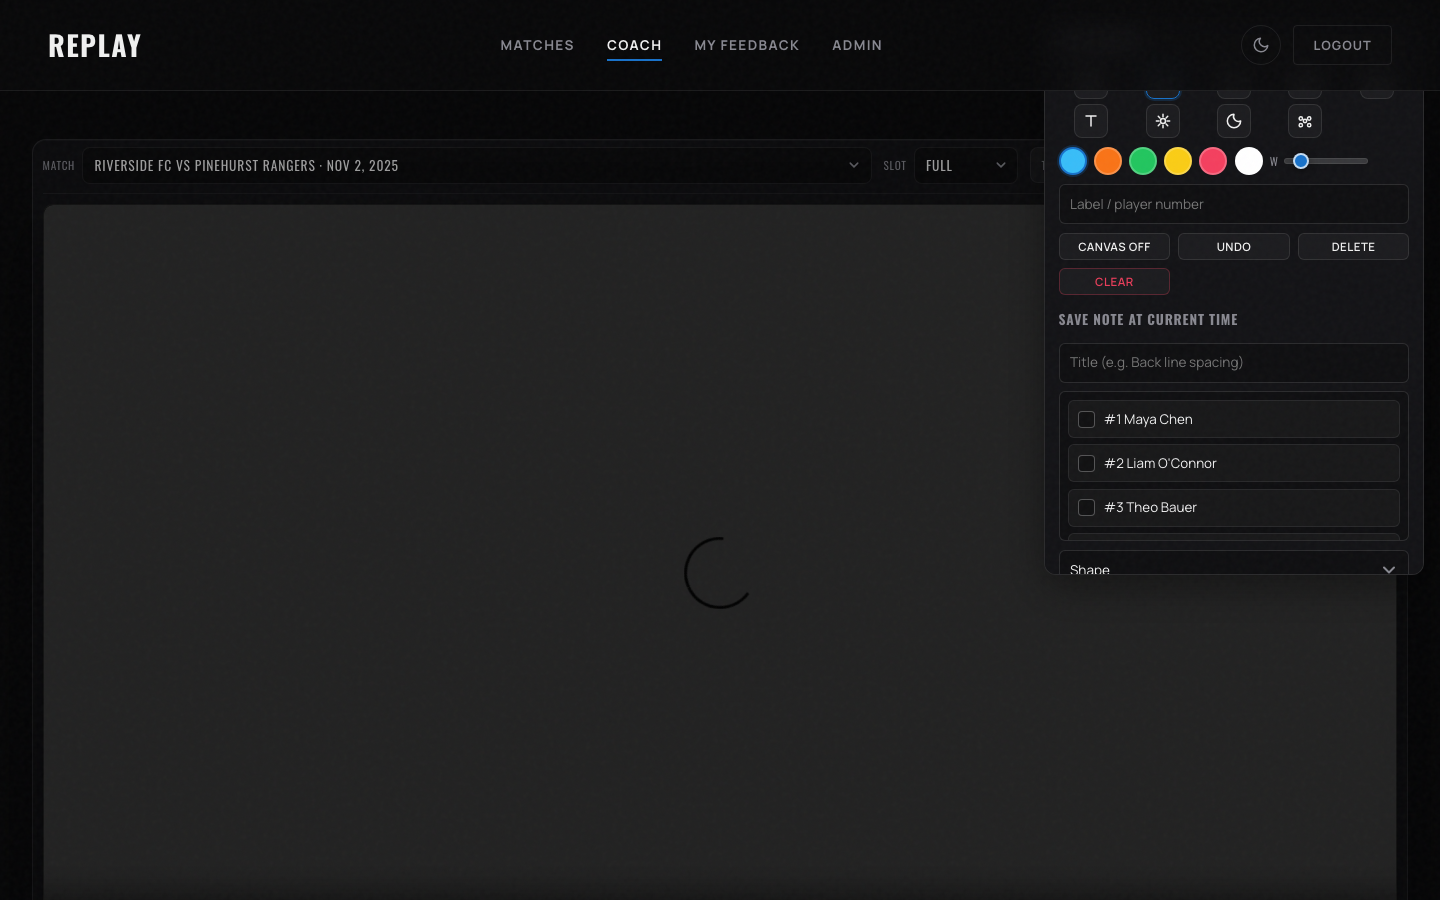
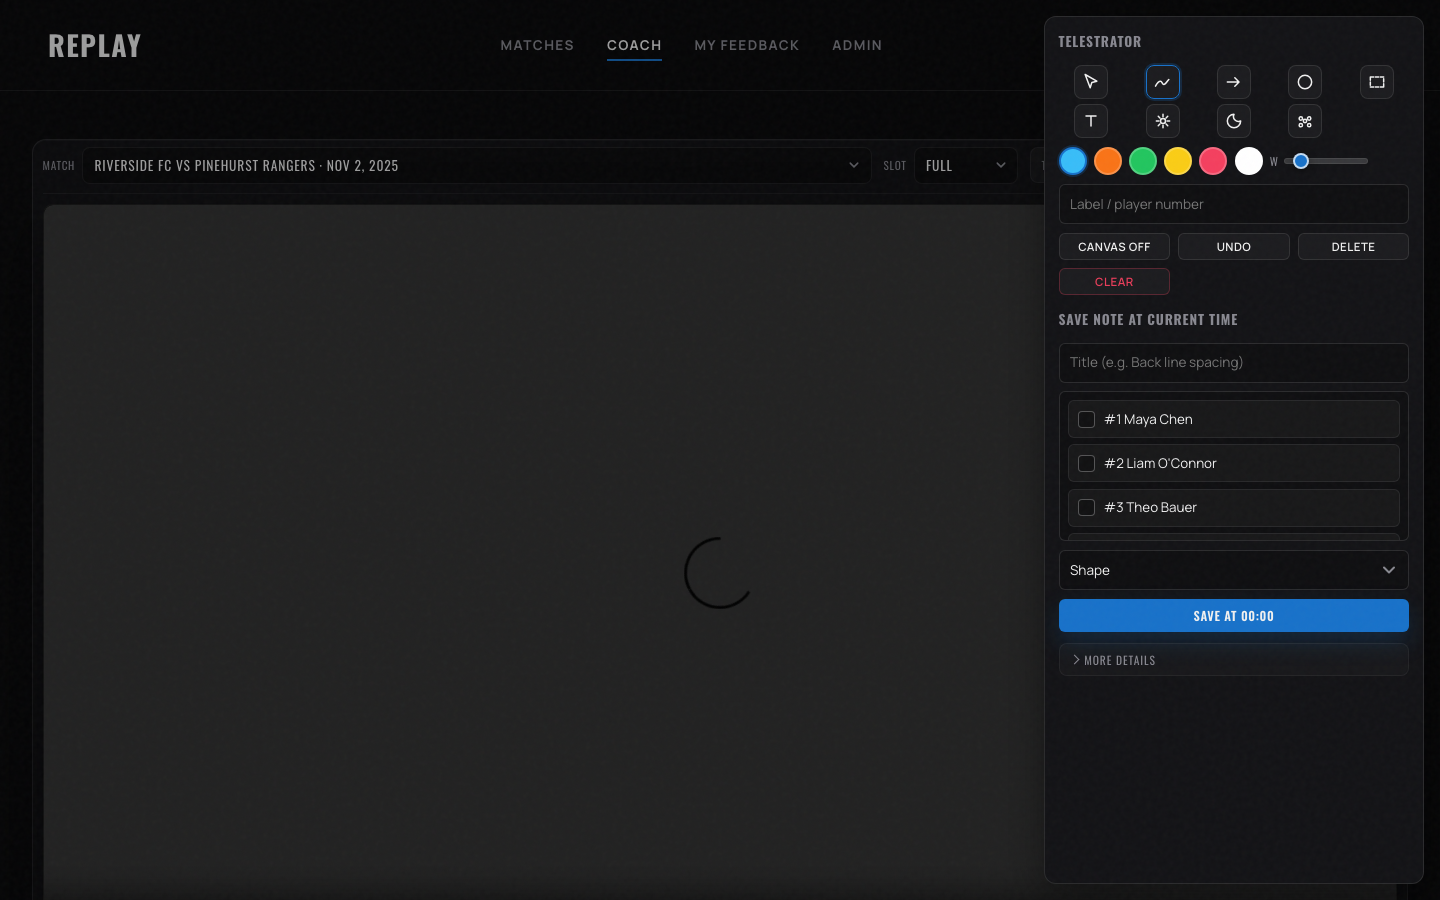
Sprint 6 fix: drawer top tools clipped by sticky nav and stale scrollTop
User report: "when the tools come into view its cut off at the top"

Two compounding issues hid the drawer's top section:

1) The drawer renders at top: 1rem (viewport-relative, position: fixed,
   z-index: 60) but `nav.main-nav` is `position: sticky; z-index: 100;
   height: 91px`. The drawer's top ~75 px got hidden behind the nav,
   showing only the second tool row + color swatches.

2) `.coach-review-side` carried scrollTop from when it lived inline in
   the inspector column (Sprint 1 height-sync sets max-height to match
   the video; long content scrolls inside). After re-parenting to body
   for the drawer, that stale scrollTop kept the top tools off-screen.

3) Bonus: `_syncCoachReviewSideHeight` had set inline max-height while
   the panel was inline; that value would clip the drawer once its own
   `bottom: 1rem` rule took over.

Fixes (all in styles.css + js/coaching.js):

styles.css
- Drawer z-index: 60 → 110
- Backdrop z-index: 55 → 105
- Both now render above .main-nav (z-index 100). Comment added so the
  next edit doesn't recreate the trap.

js/coaching.js
- openCoachFocusInspector() saves and clears the inline max-height
  before re-parenting, then resets scrollTop to 0 via
  requestAnimationFrame after layout settles.
- closeCoachFocusInspector() restores the saved max-height when the
  panel returns to its original parent so Sprint 1's height-sync
  doesn't have to redo the work for one frame.
[…]

diff --git a/js/coaching.js b/js/coaching.js
@@ -808,6 +808,14 @@ export const coachingMixin = {
         if (this._coachFocusMode) return;
         this._coachFocusMode = true;
         this._coachFocusInspectorOpen = false;
+        // Sprint 6 fix: snap the page to the top so the cockpit isn't
+        // anchored to wherever the user happened to be scrolled (e.g. they
+        // scrolled down to see the timeline rail). The fixed-position drawer
+        // is viewport-relative, so a scrolled page would render the drawer
+        // at the right edge of an ambiguous slice of the cockpit. Saving the
+        // previous scroll position lets us restore it on exit.
+        this._coachFocusPreviousScrollY = window.scrollY;
+        window.scrollTo({ top: 0, behavior: 'instant' });
         const coachView = document.getElementById('coach-view');
         if (coachView) coachView.classList.add('is-focus-mode');
         document.body.classList.add('coach-focus-mode');  // for global overlays / scrollbar gutters
@@ -854,6 +862,13 @@ export const coachingMixin = {
         if (coachView) {
             coachView.classList.remove('is-focus-mode');
             coachView.classList.remove('is-focus-drawer-open');
+        }
+        // Restore the page scroll position the user had before entering focus.
+        if (typeof this._coachFocusPreviousScrollY === 'number') {
+            requestAnimationFrame(() => {
+                window.scrollTo({ top: this._coachFocusPreviousScrollY, behavior: 'instant' });
+                this._coachFocusPreviousScrollY = null;
+            });
         }
         document.body.classList.remove('coach-focus-mode');
         const toggle = document.getElementById('coach-review-focus-toggle');
@@ -906,7 +921,24 @@ export const coachingMixin = {
         if (side && !this._coachFocusSideOriginalParent) {
             this._coachFocusSideOriginalParent = side.parentElement;
             this._coachFocusSideOriginalNextSibling = side.nextSibling;
+            // Sprint 6 fix: clear the inline `max-height` that Sprint 1's
+            // _syncCoachReviewSideHeight set while the panel was inline in
+            // the grid. That value (matched to the video wrapper height)
+            // would clip the drawer's content vertically once the drawer's
+            // own `bottom: 1rem` rule takes over. We save the inline value
+            // and restore it on close.
+            this._coachFocusSideOriginalMaxHeight = side.style.maxHeight;
+            side.style.maxHeight = '';
             document.body.appendChild(side);
+        }
+        // Sprint 6: scroll the drawer to its top so the telestrator section is
+        // visible. .coach-review-side carries a scrollTop value from when it
+        // lived inline in the inspector column (Sprint 1 height-sync) — that
+        // stale offset would crop the top tools out of view if not reset.
+        if (side) {
+            // requestAnimationFrame so layout settles after re-parenting before
+            // we scroll.
+            requestAnimationFrame(() => { side.scrollTop = 0; });
         }
     },
 
@@ -929,6 +961,14 @@ export const coachingMixin = {
                 parent.insertBefore(side, next);
             } else {
                 parent.appendChild(side);
+            }
+            // Restore the inline max-height we cleared in openCoachFocusInspector
+            // so Sprint 1's height-sync continues to work. _syncCoachReviewSideHeight
+            // will overwrite it on the next resize regardless, but restoring here
+            // keeps the layout from flickering at zero height for one frame.
+            if (this._coachFocusSideOriginalMaxHeight !== undefined) {
+                side.style.maxHeight = this._coachFocusSideOriginalMaxHeight;
+                this._coachFocusSideOriginalMaxHeight = undefined;
             }
             this._coachFocusSideOriginalParent = null;
             this._coachFocusSideOriginalNextSibling = null;

diff --git a/styles.css b/styles.css
@@ -7007,7 +7007,11 @@ details.diag-row-details[open] > summary::after {
  * that point. Without this re-parenting, an ancestor stacking context
  * (e.g. .coach-tab-panel's coachTabFade animation) traps the drawer's
  * z-index and the backdrop renders above the drawer, intercepting all
- * clicks and showing a zoom-out cursor over the panel. */
+ * clicks and showing a zoom-out cursor over the panel.
+ *
+ * z-index 110 (and 105 for the backdrop) puts both above .main-nav
+ * (z-index: 100, position: sticky). Without this the drawer's top
+ * ~75px gets hidden behind the sticky nav. */
 body.coach-focus-drawer-open > .coach-review-side {
     display: grid;
     position: fixed;
@@ -7016,7 +7020,7 @@ body.coach-focus-drawer-open > .coach-review-side {
     bottom: 1rem;
     width: min(380px, calc(100vw - 2rem));
     max-height: none;
-    z-index: 60;
+    z-index: 110;
     background: var(--bg-panel, #0e1320);
     border: 1px solid rgba(255, 255, 255, 0.10);
     border-radius: 12px;
@@ -7034,7 +7038,7 @@ body.coach-focus-drawer-open > .coach-review-side {
     position: fixed;
     inset: 0;
     background: rgba(0, 0, 0, 0.35);
-    z-index: 55;
+    z-index: 105;       /* Above .main-nav (z-index: 100), below the drawer (110). */
     animation: coachFocusBackdropFade 180ms ease-out;
     cursor: zoom-out;
 }
